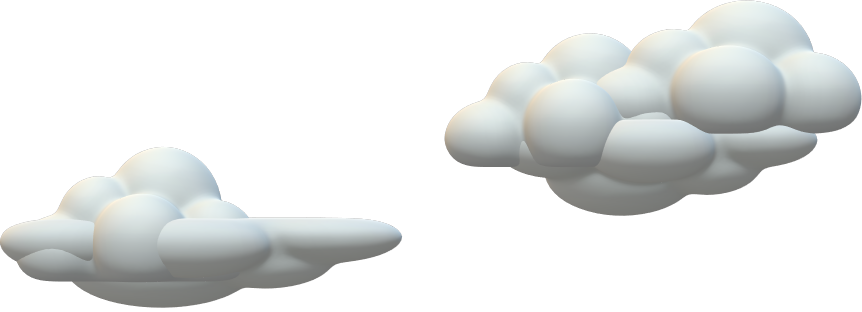
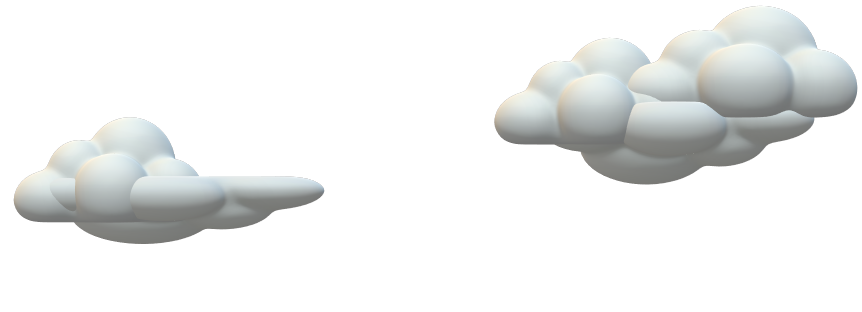
Modified code in JS and CSS for the proper working

diff --git a/style.css b/style.css
@@ -1,75 +1,74 @@
 body {
-    display: flex;
-    flex-direction: column;
-    align-items: center;
-    justify-content: center;
-    font-family: Arial, sans-serif;
-    background: linear-gradient(to bottom, #87CEEB, #B0E0E6); /* Sky gradient */
-    background-repeat: no-repeat;
-    background-attachment: fixed;
-    margin: 0;
-    height: 100vh;
+  display: flex;
+  flex-direction: column;
+  align-items: center;
+  justify-content: center;
+  font-family: Arial, sans-serif;
+  background: linear-gradient(to bottom, #87CEEB, #B0E0E6); /* Sky gradient */
+  background-repeat: no-repeat;
+  background-attachment: fixed;
+  margin: 0;
+  height: 100vh;
 }
 
 /* Add animated clouds */
 body::before {
-    content: "";
-    position: absolute;
-    top: 0;
-    left: 0;
-    width: 100%;
-    height: 100%;
-    background: url('cloud.png') repeat-x; /* cloud image */
-    animation: moveClouds 20s linear infinite;
+  content: "";
+  position: absolute;
+  top: 0;
+  left: 0;
+  width: 100%;
+  height: 100%;
+  background: url('cloud.png') repeat-x; /* cloud image */
+  animation: moveClouds 20s linear infinite;
 }
 
 /* Cloud animation */
 @keyframes moveClouds {
-    from { background-position: 100vw 50px; }
-    to { background-position: -100vw 50px; }
+  from { background-position: 100vw 50px; }
+  to { background-position: -100vw 50px; }
 }
-  
-  h1 {
-    margin: 10px 0;
-    color: #fff;
-  }
-  
-  #gameCanvas {
-    border: 2px solid #000;
-    background-color: #87CEEB;
-  }
-  
-  #score {
-    font-size: 18px;
-    color: #fff;
-    margin-top: 10px;
-  }
-  
-  #instructions {
-    font-size: 20px;
-    color: #fff;
-    margin-top: 10px;
-  }
-  
-  #playButton, #replayButton {
-    padding: 10px 20px;
-    font-size: 18px;
-    background-color: #4CAF50;
-    color: white;
-    border: none;
-    border-radius: 5px;
-    cursor: pointer;
-    margin-top: 20px;
-  }
-  
-  #playButton:hover, #replayButton:hover {
-    background-color: #45a049;
-  }
-  
-  #countdown {
-    font-size: 48px;
-    font-weight: bold;
-    color: #fff;
-    margin-top: 20px;
-  }
-  
+
+h1 {
+  margin: 10px 0;
+  color: #fff;
+}
+
+#gameCanvas {
+  border: 2px solid #000;
+  background-color: #87CEEB;
+}
+
+#score {
+  font-size: 18px;
+  color: #fff;
+  margin-top: 10px;
+}
+
+#instructions {
+  font-size: 20px;
+  color: #fff;
+  margin-top: 10px;
+}
+
+#playButton, #replayButton {
+  padding: 10px 20px;
+  font-size: 18px;
+  background-color: #4CAF50;
+  color: white;
+  border: none;
+  border-radius: 5px;
+  cursor: pointer;
+  margin-top: 20px;
+}
+
+#playButton:hover, #replayButton:hover {
+  background-color: #45a049;
+}
+
+#countdown {
+  font-size: 48px;
+  font-weight: bold;
+  color: #fff;
+  margin-top: 20px;
+}

diff --git a/script.js b/script.js
@@ -19,6 +19,14 @@ let pipes = [];
 let score = 0;
 let isGameOver = false;
 
+// Load the cloud image with a check to ensure it's ready
+const cloudImage = new Image();
+cloudImage.src = 'cloud.png'; // Use your image path here
+cloudImage.onload = function() {
+    console.log("Cloud image loaded successfully!");
+    // Only start the game after the image is loaded
+};
+
 // Create initial pipes
 function createPipe() {
   const gapY = Math.random() * (canvas.height - PIPE_GAP - 100) + 50;